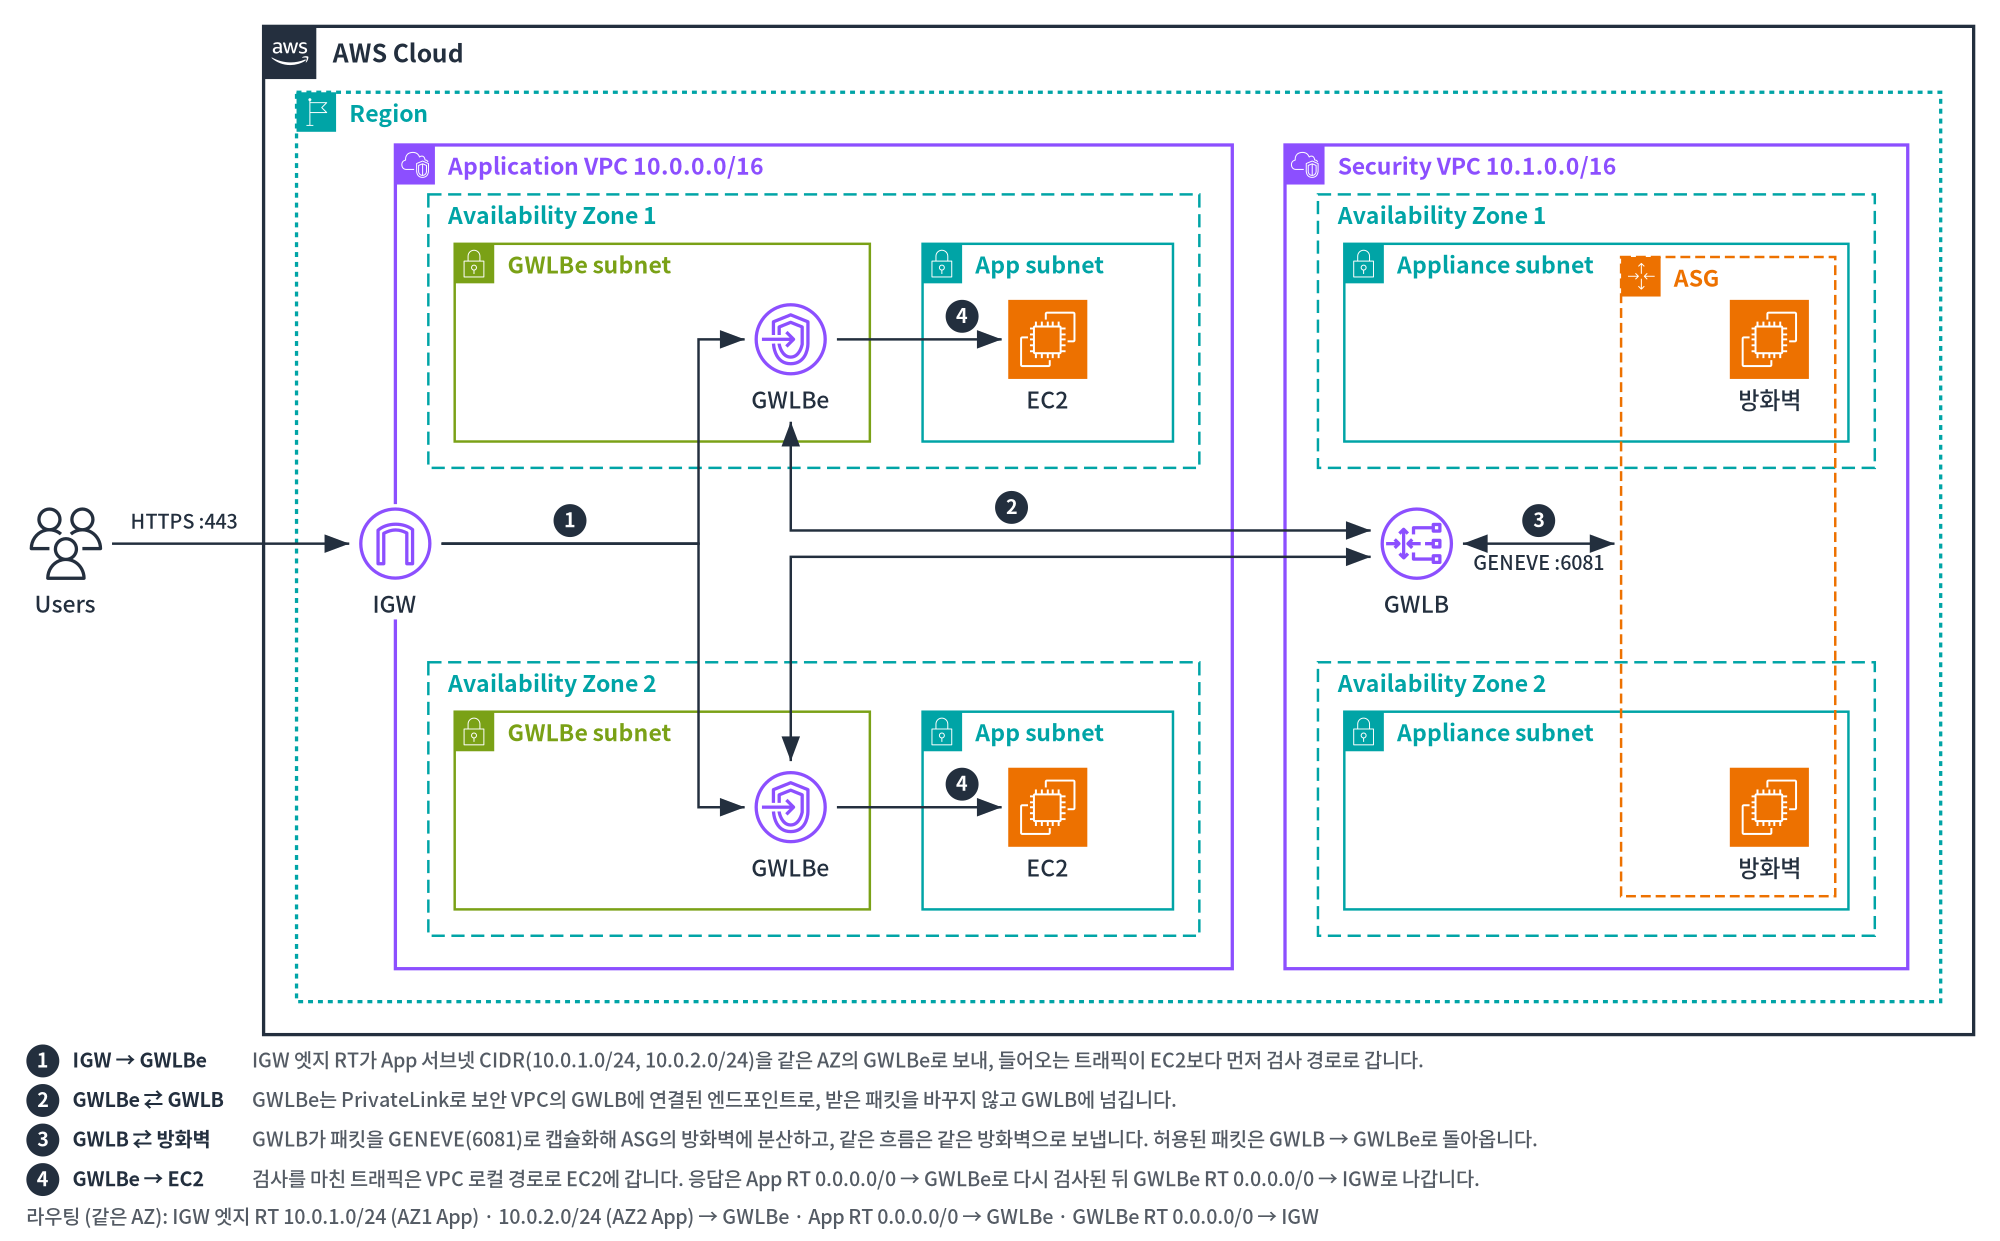
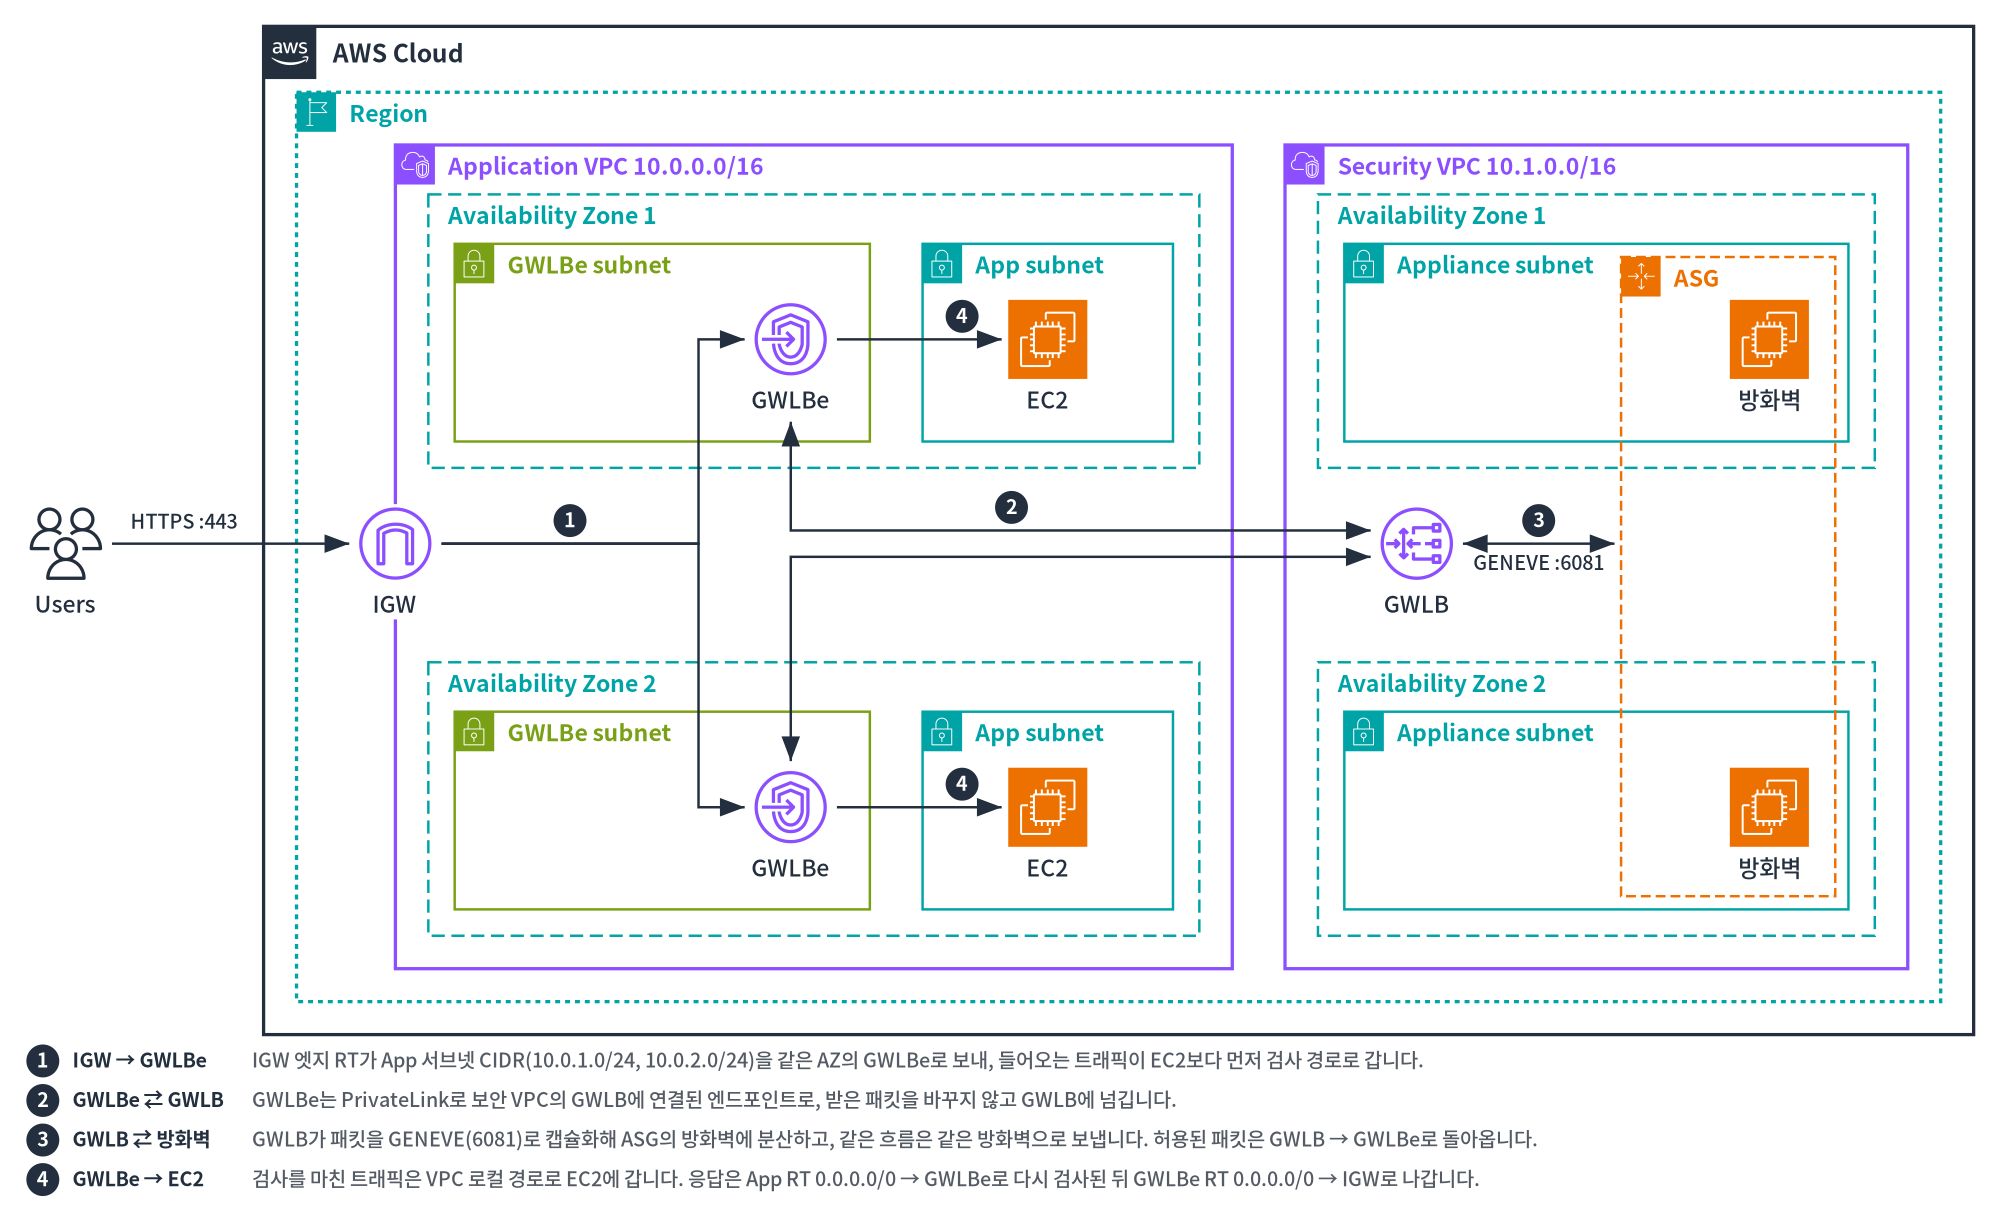
Drop a document's route line when the step descriptions already carry every route, keeping it only for routes no step mentions

Changed region(s): [[0.0, 0.5312, 0.992, 1.0], [0.0, 0.0938, 0.961, 0.5], [0.124, 0.0312, 0.62, 0.25]]

diff --git a/references/diagram_guide.md b/references/diagram_guide.md
@@ -549,12 +549,16 @@ a target group spanning the AZs with a zonal EC2 instance in each (it is
     does at that hop (inspects, translates, encapsulates, load-balances), and the
     return path or the exception where it matters ("VPC 간 트래픽은 ... TGW로
     돌아갑니다"). Use the diagram's own names; keep each row inside the canvas
-    (≈ 100 Korean characters at most on a 1200px canvas). Lines that aren't
-    steps (summary, routes, security groups, test inputs) follow as plain 12px
-    lines, 16px apart, starting at the same left edge, 8px below the last badge.
+    (≈ 100 Korean characters at most on a 1200px canvas). The step descriptions
+    carry the routes, so a document drops the "라우팅: ..." line once every route it
+    would list is in a description; keep it only for routes no step mentions, and
+    never repeat a route there. Lines that aren't steps (summary, leftover routes,
+    security groups, test inputs) follow as plain 12px lines, 16px apart, starting
+    at the same left edge, 8px below the last badge.
     The note's two-line limit doesn't count the step rows.
   - **Slide** (canvas height ≤ 540): items stay short — the hop and at most a few
-    words ("같은 AZ 방화벽에서 검사"); the speaker or the document carries the rest.
+    words ("같은 AZ 방화벽에서 검사"); the speaker or the document carries the rest,
+    and the routes stay on the note's route line.
     When one row per step doesn't fit, flow the items in one row, 20px between an item's text end and the next badge; wrap to a second
     row 24px below at the same left edge rather than shrinking the text.
 
@@ -564,11 +568,12 @@ a target group spanning the AZs with a zonal EC2 instance in each (it is
   <text x="44" y="664" font-size="12" font-weight="600" fill="#232F3E">IGW → GWLBe</text><text x="168" y="664" font-size="12" fill="#545B64">IGW 엣지 RT가 App 서브넷 CIDR을 같은 AZ의 GWLBe로 보내, 들어오는 트래픽이 EC2보다 먼저 검사 경로로 갑니다.</text>
   <circle cx="26" cy="684" r="10" fill="#232F3E"/><text x="26" y="688" font-size="12" font-weight="700" text-anchor="middle" fill="#FFFFFF">2</text>
   <text x="44" y="688" font-size="12" font-weight="600" fill="#232F3E">GWLBe ⇄ GWLB</text><text x="168" y="688" font-size="12" fill="#545B64">GWLBe는 PrivateLink로 GWLB에 연결된 엔드포인트로, 받은 패킷을 바꾸지 않고 넘깁니다.</text>
-  <text x="16" y="714" font-size="12" fill="#545B64">라우팅 (같은 AZ): ...</text>
+  <text x="16" y="714" font-size="12" fill="#545B64">SG: ... (a line that isn't a step)</text>
   ```
 - **When routes must be shown.** A diagram whose point is the routing — inspection
   (Network Firewall, GWLB), centralized egress, ingress routing, TGW / peering between
-  VPCs or Regions — lists every route its flows need (sub-captions or the note). Other
+  VPCs or Regions — lists every route its flows need (sub-captions, a document's step
+  descriptions, or the note's route line). Other
   diagrams may leave routes out. When routes are shown, every VPC (and on-premises
   network) carries its CIDR — in its container header, or as a 12px sub-caption under a
   single-icon VPC node or the customer gateway — and the routes use those CIDRs, not
